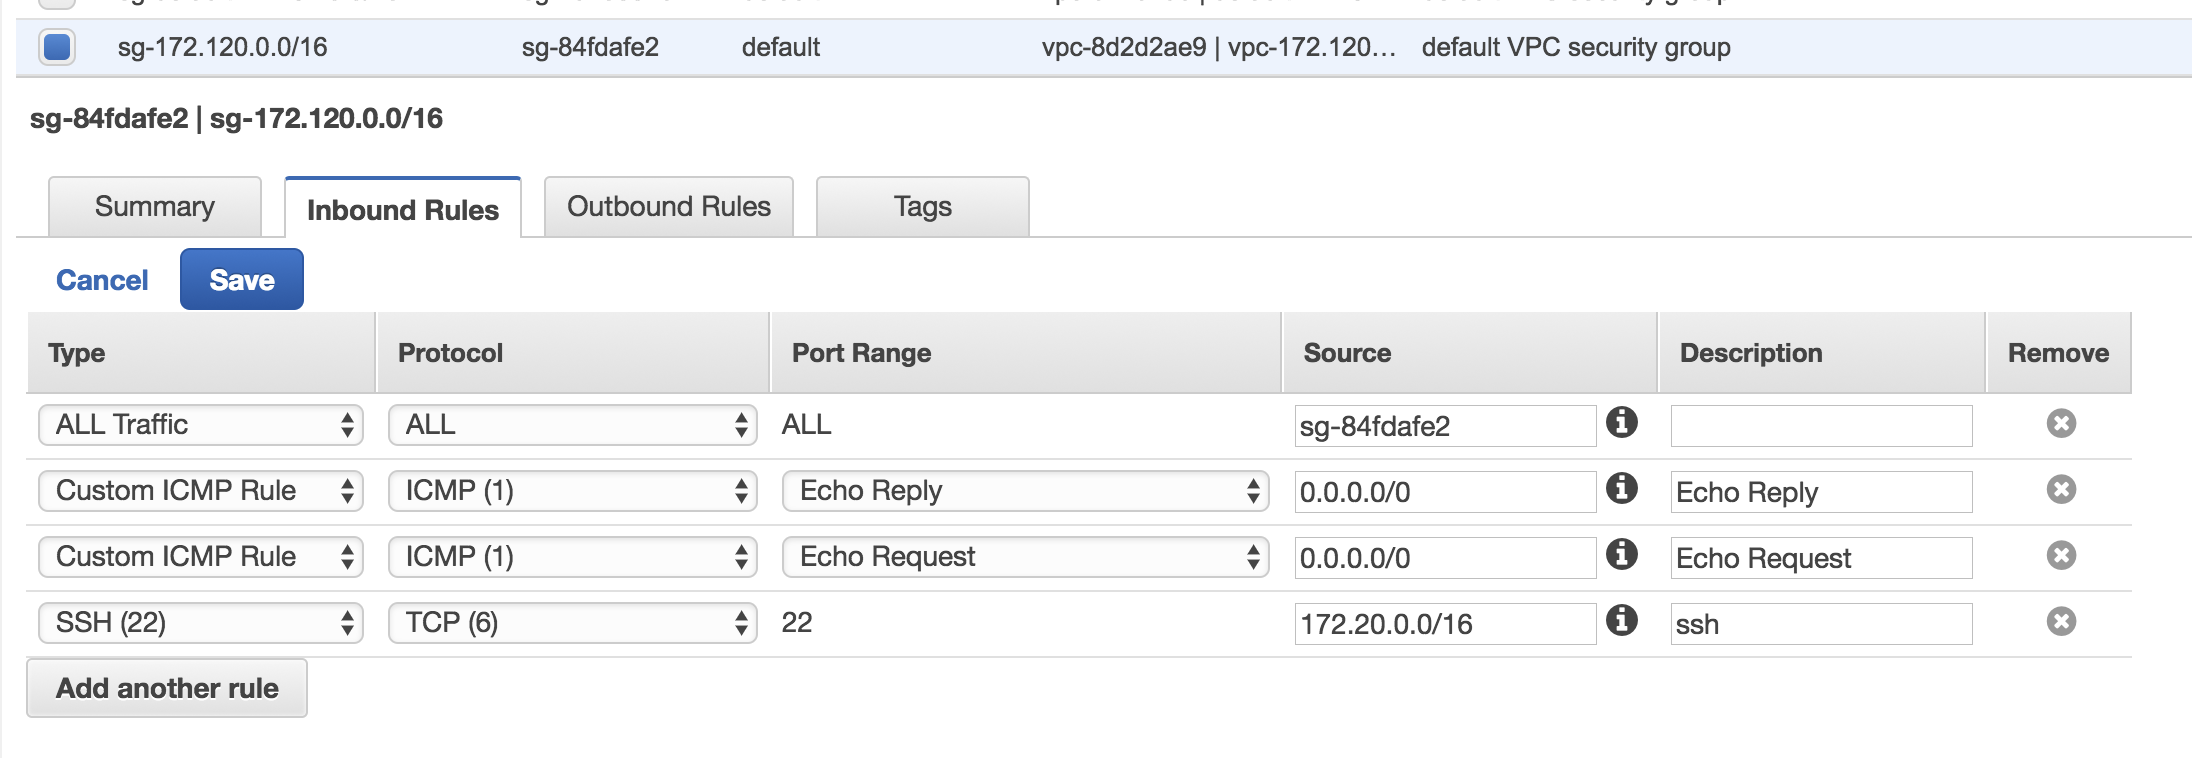
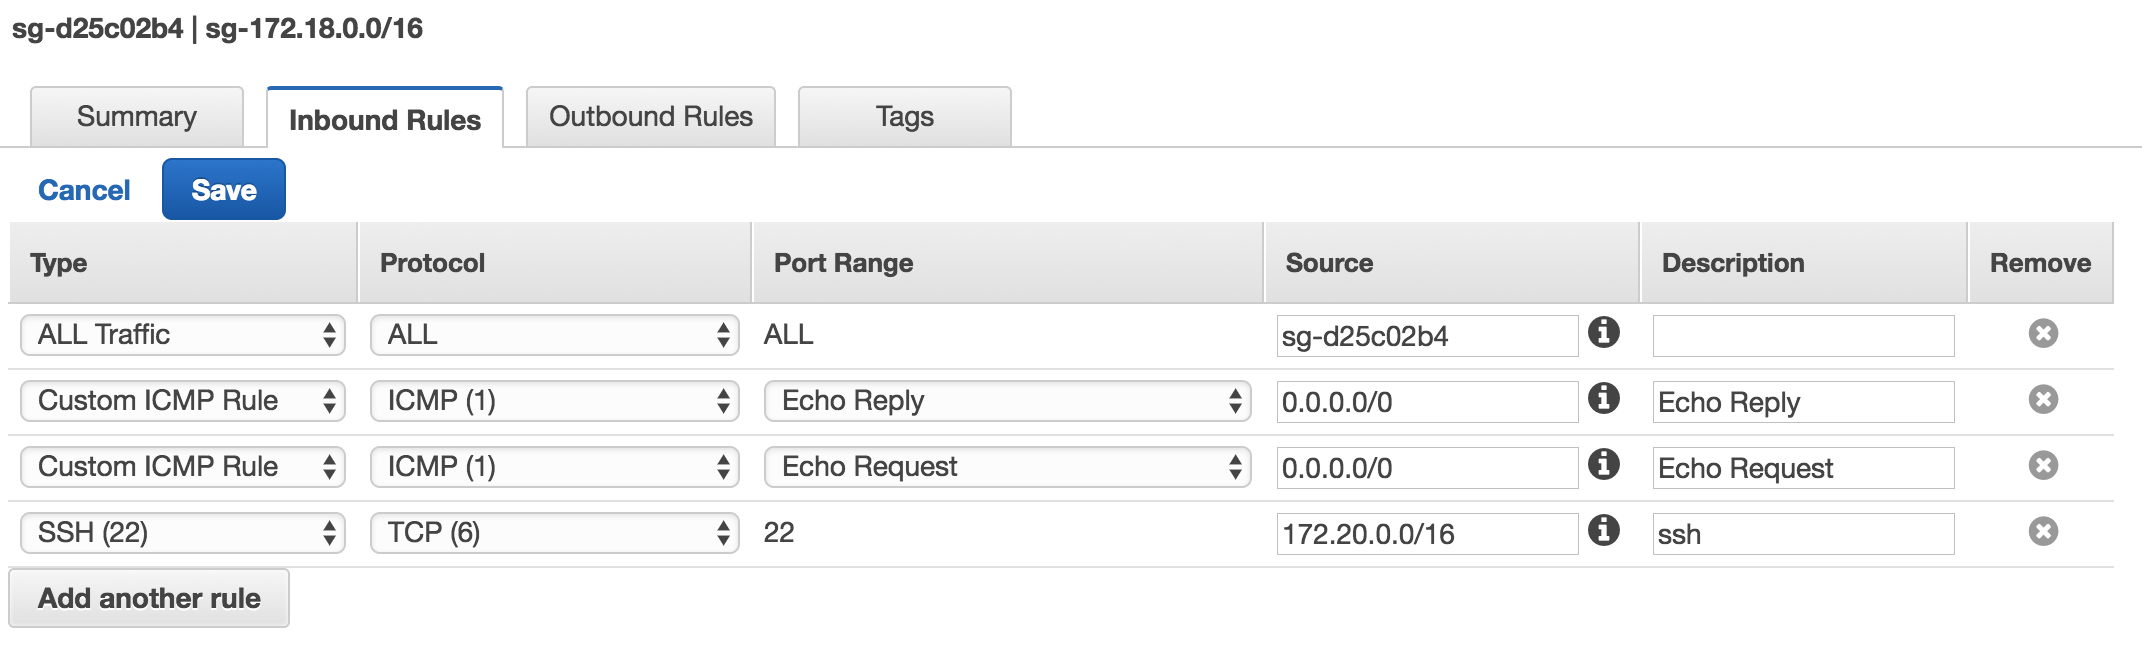
correct the CIDR

Changed region(s): [[0.0, 0.0, 1.0, 0.9846]]

diff --git a/vpc/stage10-vpc-peering.md b/vpc/stage10-vpc-peering.md
@@ -6,15 +6,15 @@ You will learn use `vpc peering` to connect 2 VPCs in the same region.
 
 1. create a VPC in the `us-west-1`
 
-	- Name: `vpc-172.120.0.0/16`
-	- CIDR: `172.120.0.0/16`
+	- Name: `vpc-172.18.0.0/16`
+	- CIDR: `172.18.0.0/16`
 
 2. Create a VPC Peering
 	
 	![](images/lab10/0-create-peering.png)
 	
-	- name: peer-172.120.0.0/16
-	- requester: 172.120.0.0/16
+	- name: peer-172.18.0.0/16
+	- requester: 172.18.0.0/16
 	- accepter: 172.20.0.0/16
 	
 	![](images/lab10/1-create-peering.png)
@@ -28,26 +28,26 @@ You will learn use `vpc peering` to connect 2 VPCs in the same region.
 	
 	![](images/lab10/3-create-peering.png)
 	
-5. Edit route table `rtb-172.120.0.0/16`
+5. Edit route table `rtb-172.18.0.0/16`
 	- add 172.20.0.0/16 to pcx peering
 	
 	![](images/lab10/4-create-peering.png)
 	
-6. Edit security group `sg-172.120.0.0/16`
+6. Edit security group `sg-172.18.0.0/16`
 
 	![](images/lab10/5-sg.png)
 	
 ## Verify VPC Peering
 
-1. Create a subnet 172.120.0.0/24 at vpc-172.120.0.0/16
+1. Create a subnet 172.18.0.0/24 at vpc-172.18.0.0/16
 
 	![](images/lab10/6-subnet.png)
 
-2. Launch an EC2 instance at sub-172.120.0.0/24
-	- name: restricted-172.120.0.0
-	- use existing security group `sg-172.120.0.0/16`
+2. Launch an EC2 instance at sub-172.18.0.0/24
+	- name: restricted-172.18.0.0
+	- use existing security group `sg-172.18.0.0/16`
 
-3. ssh to your strongwan machine and ping your ec2 machine at sub-172.120.0.0/24
+3. ssh to your strongwan machine and ping your ec2 machine at sub-172.18.0.0/24
 
 	![](images/lab10/7-verify.png)
 	
@@ -56,7 +56,11 @@ You will learn use `vpc peering` to connect 2 VPCs in the same region.
 	```
 	proxy=http://nlb-proxy-1ced42e7fcf40e9a.elb.us-west-1.amazonaws.com:3128
 	```
-	if FQDN did not work, change to the ip address of one of proxy server.
+	if FQDN did not work, change to the ip address of one of proxy server such as
+	
+	```
+	proxy=http://172.20.1.64:3128
+	```
 
 5. execut yum update
 

diff --git a/vpc/stage11-vpc-endpoint.md b/vpc/stage11-vpc-endpoint.md
@@ -2,15 +2,15 @@
 
 ### Before S3 endpoint
 
-1. ssh to restricted machine in the vpc-172.120.0.0/16
-2. ping s3 region endpoint and you will get timeout
-
+1. ssh to restricted machine in the vpc-172.18.0.0/16
+2. `ping s3.us-west-1.amazonaws.com` and you will get timeout
+	
 	![](images/lab11/3-s3-before-endpoint.png)
 
 ### S3 endpiont
 
 1. create S3 endpoint
-	- vpc: vpc-172.120.0.0/16
+	- vpc: vpc-172.18.0.0/16
 	- service: S3
 
 	![](images/lab11/1-endpoint-create.png)
@@ -29,7 +29,7 @@ Now, login into restricted machine in vpc-172.120.0.0/16. Ping S3 endpoint again
 
 ![](images/lab11/4-s3-endpoint.png)
 
-You can see route table `rtb-172.120.0.0/16` with the `vpce` in the target.
+You can see route table `rtb-172.18.0.0/16` with the `vpce` in the target.
 
 ![](images/lab11/5-route-table-endpoint.png)
 
